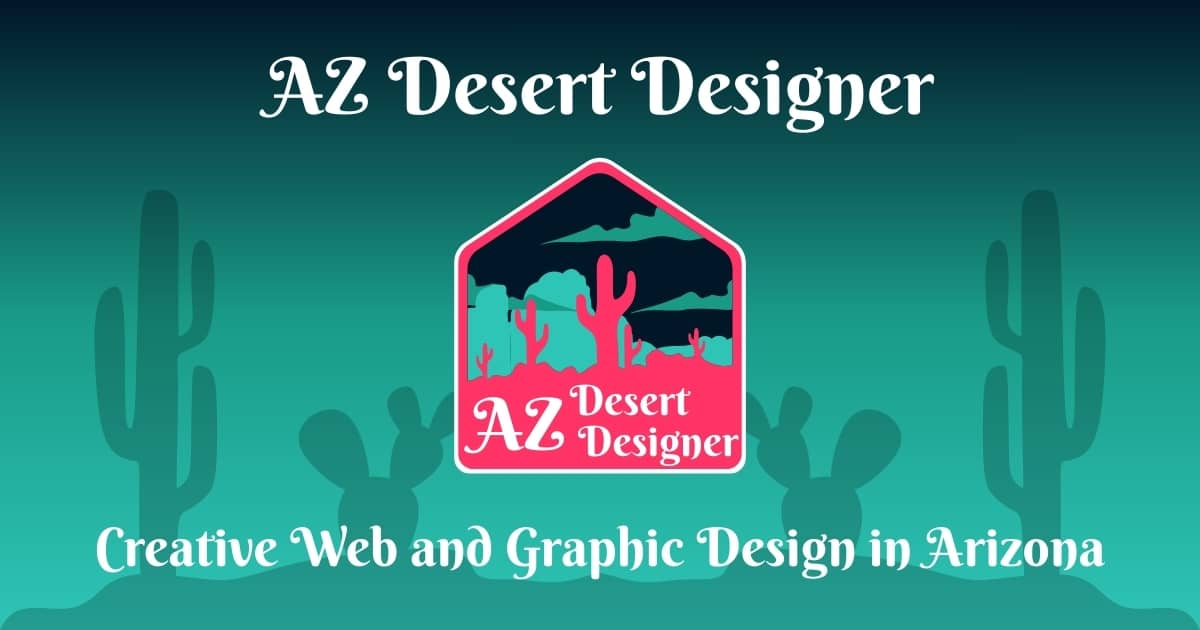
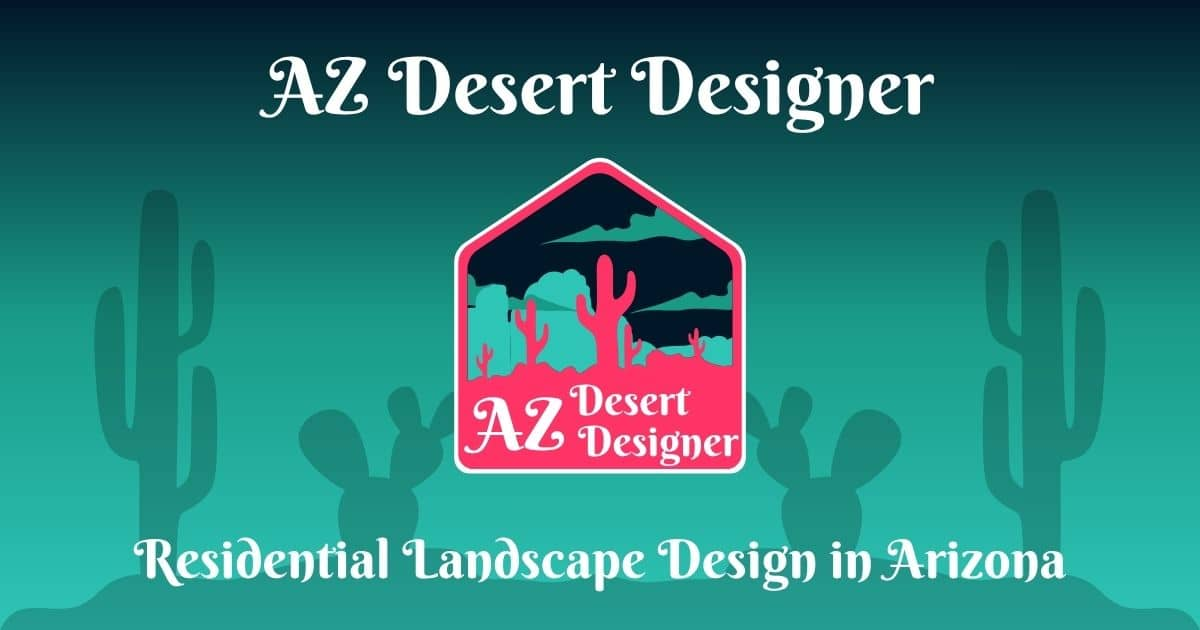
updated the head section for the about page and added a new preview image

Changed region(s): [[0.0617, 0.8143, 0.925, 0.9349]]

diff --git a/about.html b/about.html
@@ -6,13 +6,13 @@
     <meta name="viewport" content="width=device-width, initial-scale=1.0">
 
     <!-- Primary Meta Tags -->
-    <meta name="description" content="At AZ Desert Designer, we provide innovative web and graphic design solutions tailored to elevate your brand. Discover our creative approach and personalized service.">
+    <meta name="description" content="Learn about AZ Desert Designer, a residential landscape designer in Arizona specializing in desert landscapes, xeriscaping, and outdoor living spaces for homeowners.">
     <meta name="author" content="AZ Desert Designer">
     <meta name="robots" content="index, follow">
 
     <!-- Open Graph / Facebook -->
-    <meta property="og:title" content="Creative and Modern Design Solutions by AZ Desert Designer">
-    <meta property="og:description" content="Explore unique web and graphic design solutions that enhance your brand's identity with AZ Desert Designer. Contact us for a consultation.">
+    <meta property="og:title" content="About AZ Desert Designer | Arizona Residential Landscape Design">
+    <meta property="og:description" content="Discover the story behind AZ Desert Designer, creating personalized and sustainable outdoor spaces that celebrate the Arizona desert.">
     <meta property="og:type" content="website">
     <meta property="og:url" content="https://www.azdesertdesigner.com/about.html">
     <meta property="og:image" content="https://www.azdesertdesigner.com/assets/images/az-desert-designer-preview.jpg">
@@ -22,15 +22,15 @@
 
     <!-- Twitter Card -->
     <meta name="twitter:card" content="summary_large_image">
-    <meta name="twitter:title" content="Creative and Modern Design Solutions by AZ Desert Designer">
-    <meta name="twitter:description" content="Explore unique web and graphic design solutions that enhance your brand's identity with AZ Desert Designer. Contact us for a consultation.">
+    <meta name="twitter:title" content="About AZ Desert Designer | Arizona Residential Landscape Design">
+    <meta name="twitter:description" content="Learn about AZ Desert Designer and the approach to creating custom desert landscape designs for Arizona homeowners.">
     <meta name="twitter:image" content="https://www.azdesertdesigner.com/assets/images/az-desert-designer-preview.jpg">
 
     <!-- Title -->
-    <title>AZ Desert Designer | About Us</title>
+    <title>AZ Desert Designer | About</title>
 
     <!-- Favicon -->
-    <link rel="icon" type="image/webp" href="assets/images/az-desert-designer-favicon.svg">
+    <link rel="icon" type="image/svg+xml" href="assets/images/az-desert-designer-favicon.svg">
 
     <!-- Canonical -->
     <link rel="canonical" href="https://www.azdesertdesigner.com/about.html">
@@ -43,8 +43,8 @@
     <!-- CSS -->
     <link rel="preload" href="css/global.css?v=1.1" as="style">
     <link rel="preload" href="css/about.css?v=1.1" as="style">
-    <link rel="stylesheet" href="css/global.css?v=1.0">
-    <link rel="stylesheet" href="css/about.css?v=1.0">
+    <link rel="stylesheet" href="css/global.css?v=1.1">
+    <link rel="stylesheet" href="css/about.css?v=1.1">
     
     <!-- Google Analytics -->
     <script async src="https://www.googletagmanager.com/gtag/js?id=G-CYQZF57DJ5"></script>
@@ -59,10 +59,21 @@
     <script type="application/ld+json">
     {
         "@context": "https://schema.org",
-        "@type": "Organization",
+        "@type": "LocalBusiness",
         "name": "AZ Desert Designer",
         "url": "https://www.azdesertdesigner.com",
-        "logo": "https://www.azdesertdesigner.com/assets/images/az-desert-designer-logo.svg"
+        "image": "https://www.azdesertdesigner.com/assets/images/az-desert-designer-logo.svg",
+        "logo": "https://www.azdesertdesigner.com/assets/images/az-desert-designer-logo.svg",
+        "description": "Learn about AZ Desert Designer, a residential landscape designer in Arizona specializing in xeriscaping and desert landscape design for homeowners.",
+        "telephone": "(520) 977-7251",
+        "priceRange": "$$",
+        "areaServed": "Arizona",
+        "address": {
+            "@type": "PostalAddress",
+            "addressLocality": "Chandler",
+            "addressRegion": "AZ",
+            "addressCountry": "US"
+        }
     }
     </script>
 </head>
